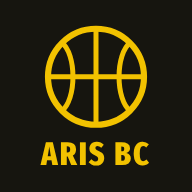
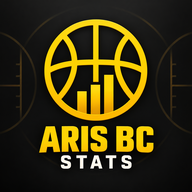
Νέο εικονίδιο εφαρμογής
Claude-Session: https://claude.ai/code/session_01WqaUhk6k5ZaeQeAuqChsZV

diff --git a/sw.js b/sw.js
@@ -1,5 +1,5 @@
 // Aris BC Stats: network-first για τη σελίδα (πάντα τα πιο φρέσκα δεδομένα), cache για εικονίδια· λειτουργεί και χωρίς ίντερνετ.
-const C='aris-v1';
+const C='aris-v2';
 self.addEventListener('install',e=>{e.waitUntil(caches.open(C).then(c=>c.addAll(['./','./manifest.webmanifest','./icons/icon-192.png','./icons/icon-512.png'])));self.skipWaiting();});
 self.addEventListener('activate',e=>{e.waitUntil(caches.keys().then(k=>Promise.all(k.filter(x=>x!==C).map(x=>caches.delete(x)))).then(()=>self.clients.claim()));});
 self.addEventListener('fetch',e=>{const r=e.request; if(r.method!=='GET') return; const u=new URL(r.url);
